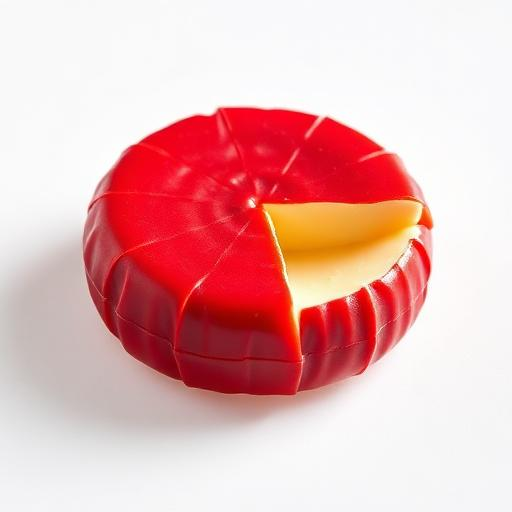
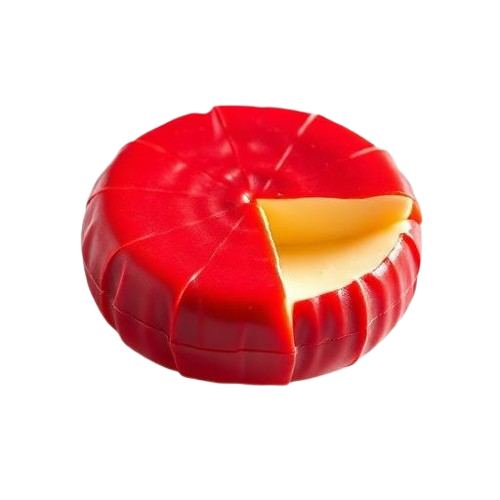
fotos

diff --git a/src/components/RadarDisplay.tsx b/src/components/RadarDisplay.tsx
@@ -1,11 +1,11 @@
 import React, { useState, useEffect } from 'react';
 import cheeseWheel from '../assets/cheese-wheel.png';
-import cheeseSlices from '../assets/cheese-slices.png';
+import cheeseSlices from '../assets/cheese-slices-removebg-preview.png';
 import babybelCheese from '../assets/babybel-cheese.png';
 import blueCheese from '../assets/blue-cheese.png';
-import granaPadano from '../assets/cuna_grana_padano.jpg';
-import quesoBrie from '../assets/quesoBrie.jpg';
-import antiGorda from '../assets/antiGorda.jpg';
+import granaPadano from '../assets/cuna_grana_padano.png';
+import quesoBrie from '../assets/quesoBrie.png';
+import antiGorda from '../assets/antiGorda.png';
 
 
 interface ProductPosition {
